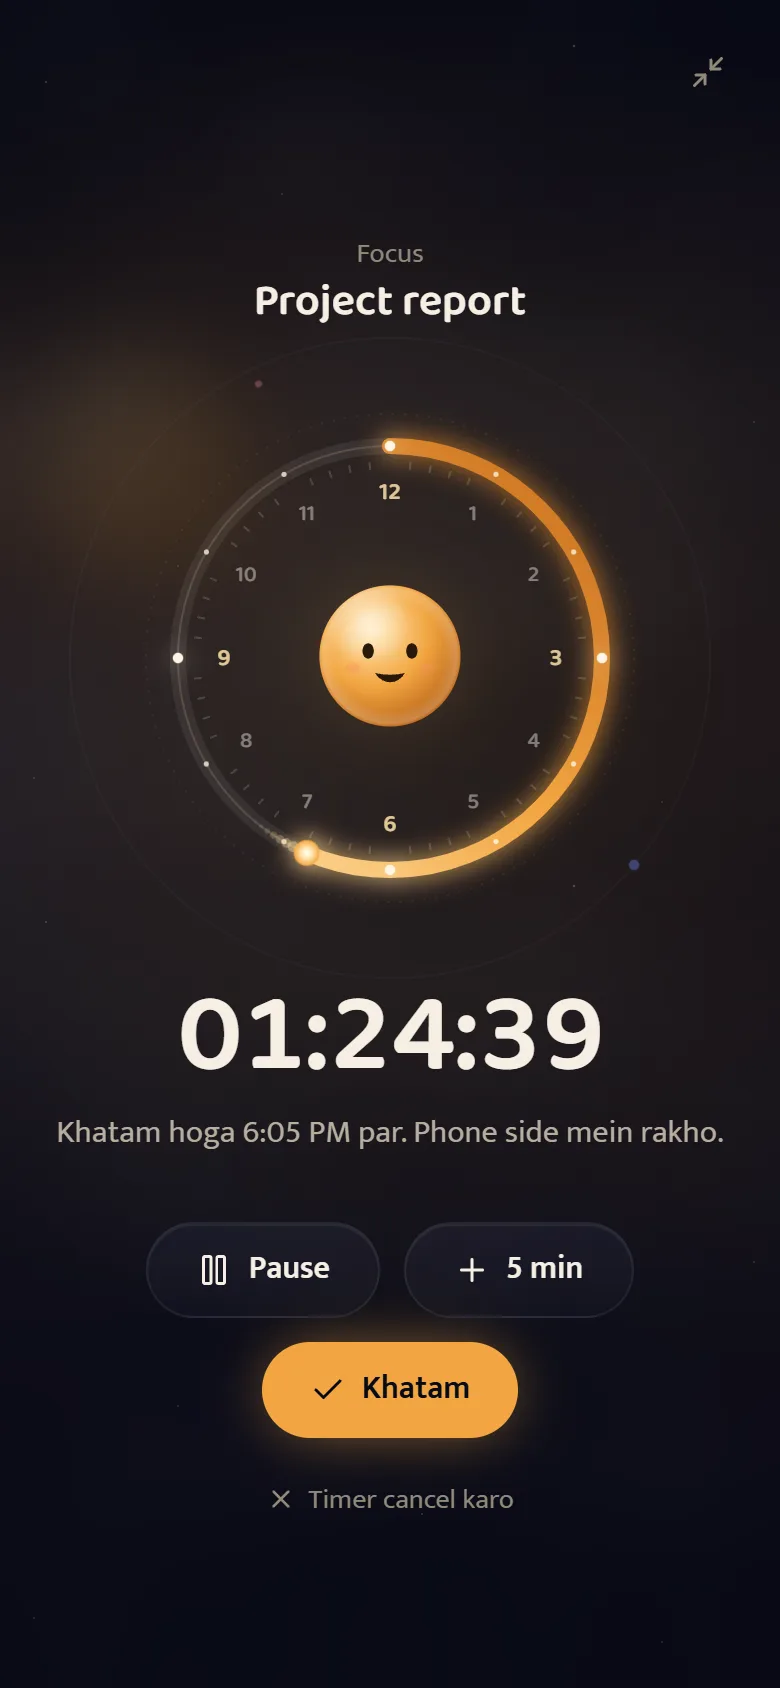
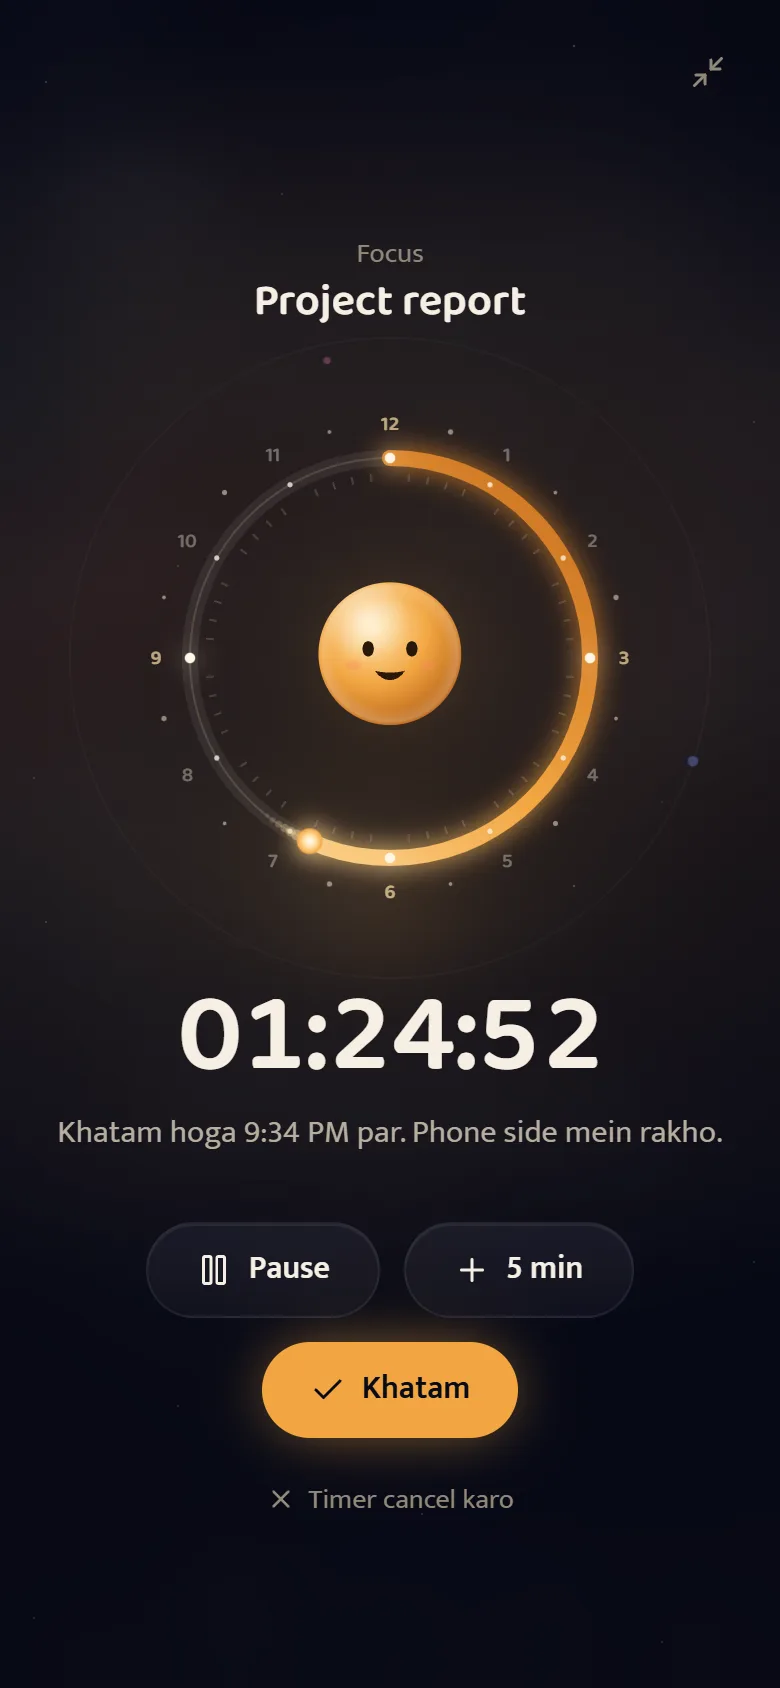
Focus timer: small, faint hour numbers outside the orbit with tiny stars between them

diff --git a/client/src/components/FocusRing.jsx b/client/src/components/FocusRing.jsx
@@ -19,13 +19,13 @@ export function FocusRing({ size = 280, stroke = 10, fraction = 1, glow = true, 
   const uid = useId().replace(/:/g, '');
   const full = detail === 'full';
   const cx = size / 2;
-  // Room outside the arc for the outer orbit (full) or just the planet's glow (mini).
-  const r = full ? cx - stroke * 2 - 8 : cx - stroke / 2 - 2;
+  // Small, faint hour numbers sit OUTSIDE the orbit (full); the mini version only needs room for the planet's glow.
+  const fontSize = Math.max(10, Math.round(size / 28));
+  const r = full ? cx - stroke / 2 - fontSize * 2 - 6 : cx - stroke / 2 - 2;
   const c = TAU * r;
   const f = Math.max(0, Math.min(1, fraction));
   const ease = reduce ? 'none' : '1s linear';
-  const fontSize = Math.max(11, Math.round(size / 24));
-  const numberR = r - stroke / 2 - fontSize - 8;
+  const numberR = r + stroke / 2 + fontSize + 3;
 
   return (
     <div className="relative grid place-items-center" style={{ width: size, height: size }}>
@@ -62,8 +62,11 @@ export function FocusRing({ size = 280, stroke = 10, fraction = 1, glow = true, 
                 <circle cx={cx} cy={-22} r="1.8" fill="#E879B9" opacity="0.6" />
               </g>
             </g>
-            {/* outer orbit for depth */}
-            <circle cx={cx} cy={cx} r={r + stroke + 8} fill="none" stroke="rgb(255 227 168 / 0.07)" strokeWidth="1" strokeDasharray="1 5" />
+            {/* tiny stars between the hour numbers, outside the orbit */}
+            {Array.from({ length: 12 }, (_, i) => {
+              const p = at(cx, numberR, clock((i + 0.5) / 12));
+              return <circle key={i} cx={p.x} cy={p.y} r={i % 2 ? 0.9 : 1.3} fill="rgb(255 243 220 / 0.5)" />;
+            })}
           </>
         )}
 
@@ -81,7 +84,7 @@ export function FocusRing({ size = 280, stroke = 10, fraction = 1, glow = true, 
               const p2 = at(cx, r - stroke / 2 - 7, a);
               return <line key={i} x1={p1.x} y1={p1.y} x2={p2.x} y2={p2.y} stroke="rgb(255 248 235 / 0.16)" strokeWidth="1" strokeLinecap="round" />;
             })}
-            {/* hour numbers like a clock */}
+            {/* hour numbers like a clock, small and faint, outside the orbit */}
             {Array.from({ length: 12 }, (_, i) => {
               const p = at(cx, numberR, clock(i / 12));
               const quarter = i % 3 === 0;
@@ -94,8 +97,8 @@ export function FocusRing({ size = 280, stroke = 10, fraction = 1, glow = true, 
                   dominantBaseline="central"
                   fontFamily="'Baloo 2', sans-serif"
                   fontWeight={quarter ? 600 : 500}
-                  fontSize={quarter ? fontSize + 1 : fontSize}
-                  fill={quarter ? 'rgb(255 227 168 / 0.85)' : 'rgb(245 239 230 / 0.45)'}
+                  fontSize={fontSize}
+                  fill={quarter ? 'rgb(255 227 168 / 0.7)' : 'rgb(245 239 230 / 0.38)'}
                 >
                   {i === 0 ? 12 : i}
                 </text>
